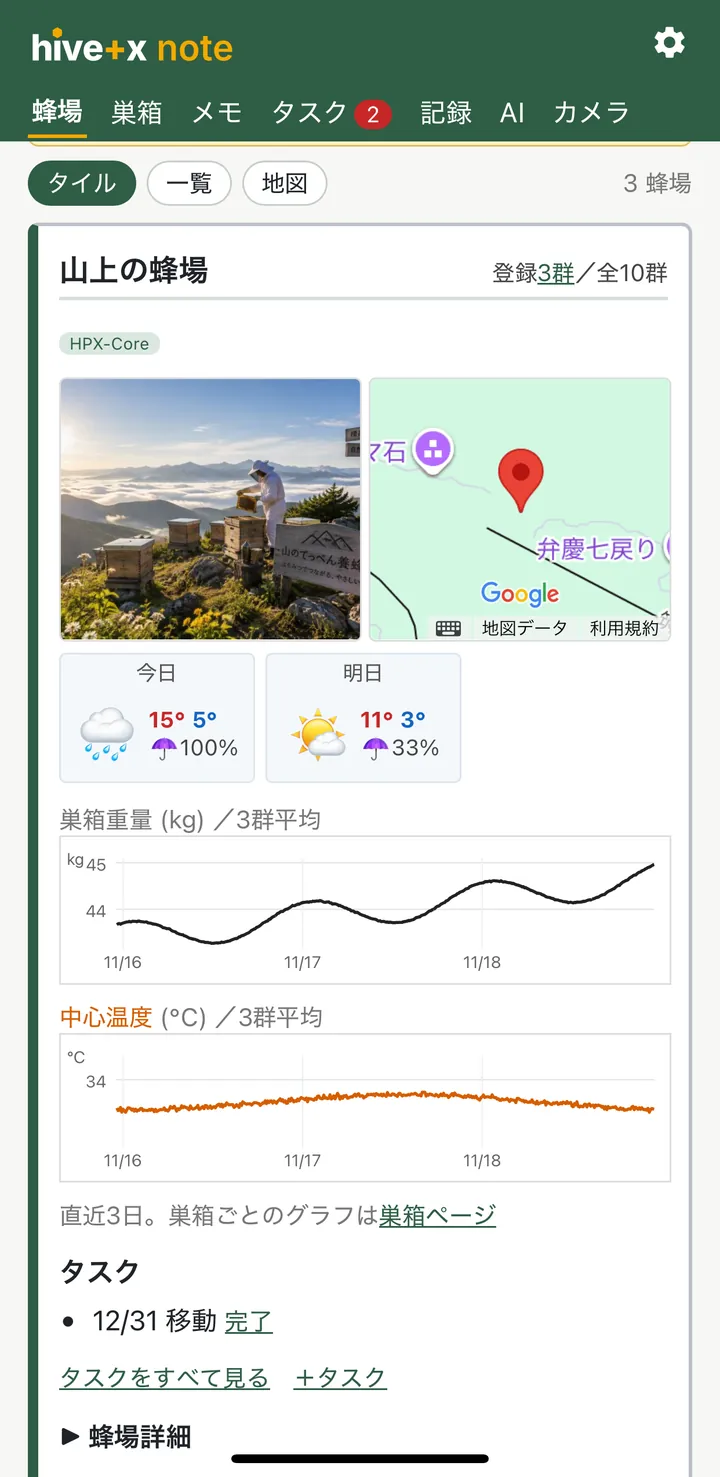
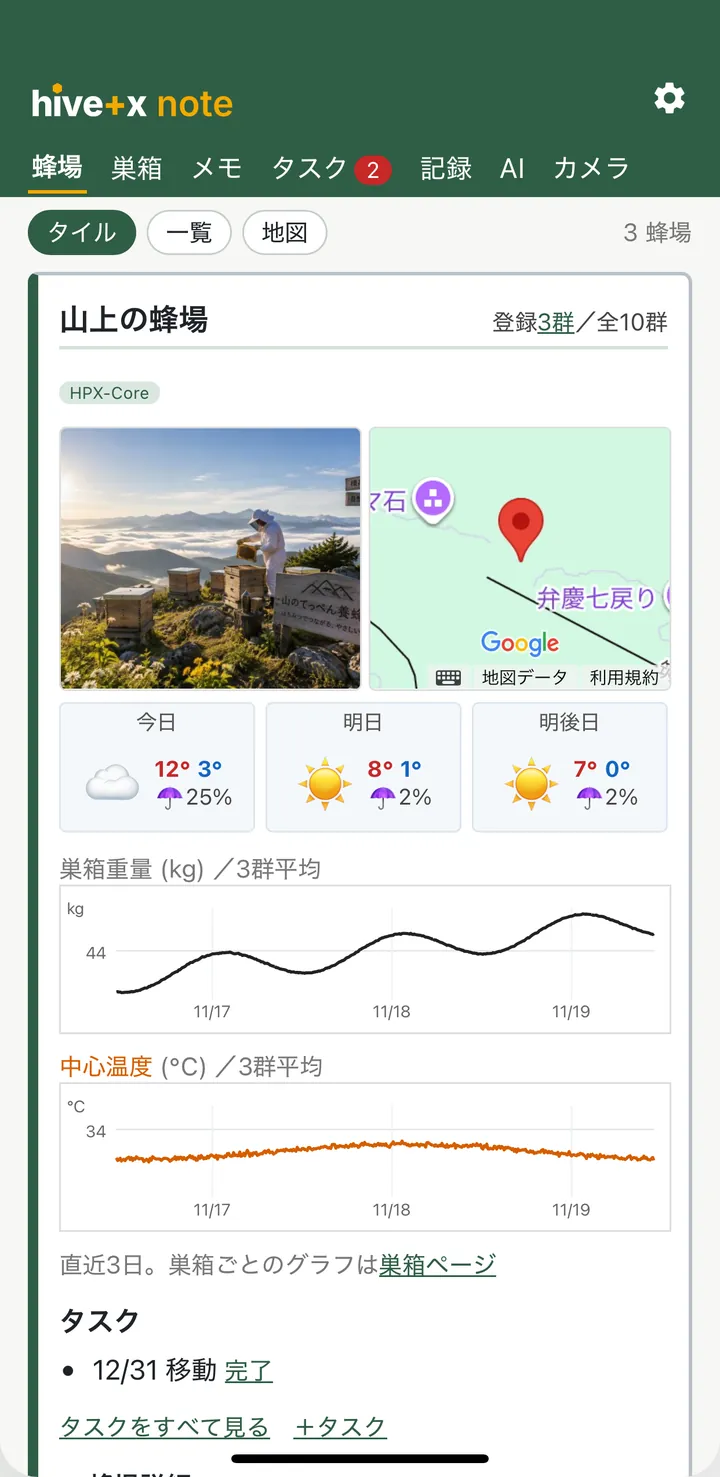
蜂場タイルの画面写真を明後日の天気まで出る新しい版に差し替え
Claude-Session: https://claude.ai/code/session_01LCC9B4TCzGQCVREfcPh4wP

diff --git a/site/app.html b/site/app.html
@@ -166,7 +166,7 @@
       <div class="shots">
         <figure class="shot">
           <a href="img/app/00_apiary_tile.webp" class="zoom"><img src="img/app/00_apiary_tile.webp" alt="蜂場の画面: タイル" width="720" height="1477" loading="lazy"></a>
-          <figcaption><b>タイル</b>蜂場ごとのカードに、写真・地図・2日分の天気と、巣箱の重さ・中心温度の3日間のグラフ、近いタスクをまとめて表示します。</figcaption>
+          <figcaption><b>タイル</b>蜂場ごとのカードに、写真・地図・3日分 (今日・明日・明後日) の天気と、巣箱の重さ・中心温度の3日間のグラフ、近いタスクをまとめて表示します。</figcaption>
         </figure>
         <figure class="shot">
           <a href="img/app/01_apiary_list.webp" class="zoom"><img src="img/app/01_apiary_list.webp" alt="蜂場の画面: 一覧" width="720" height="1477" loading="lazy"></a>
